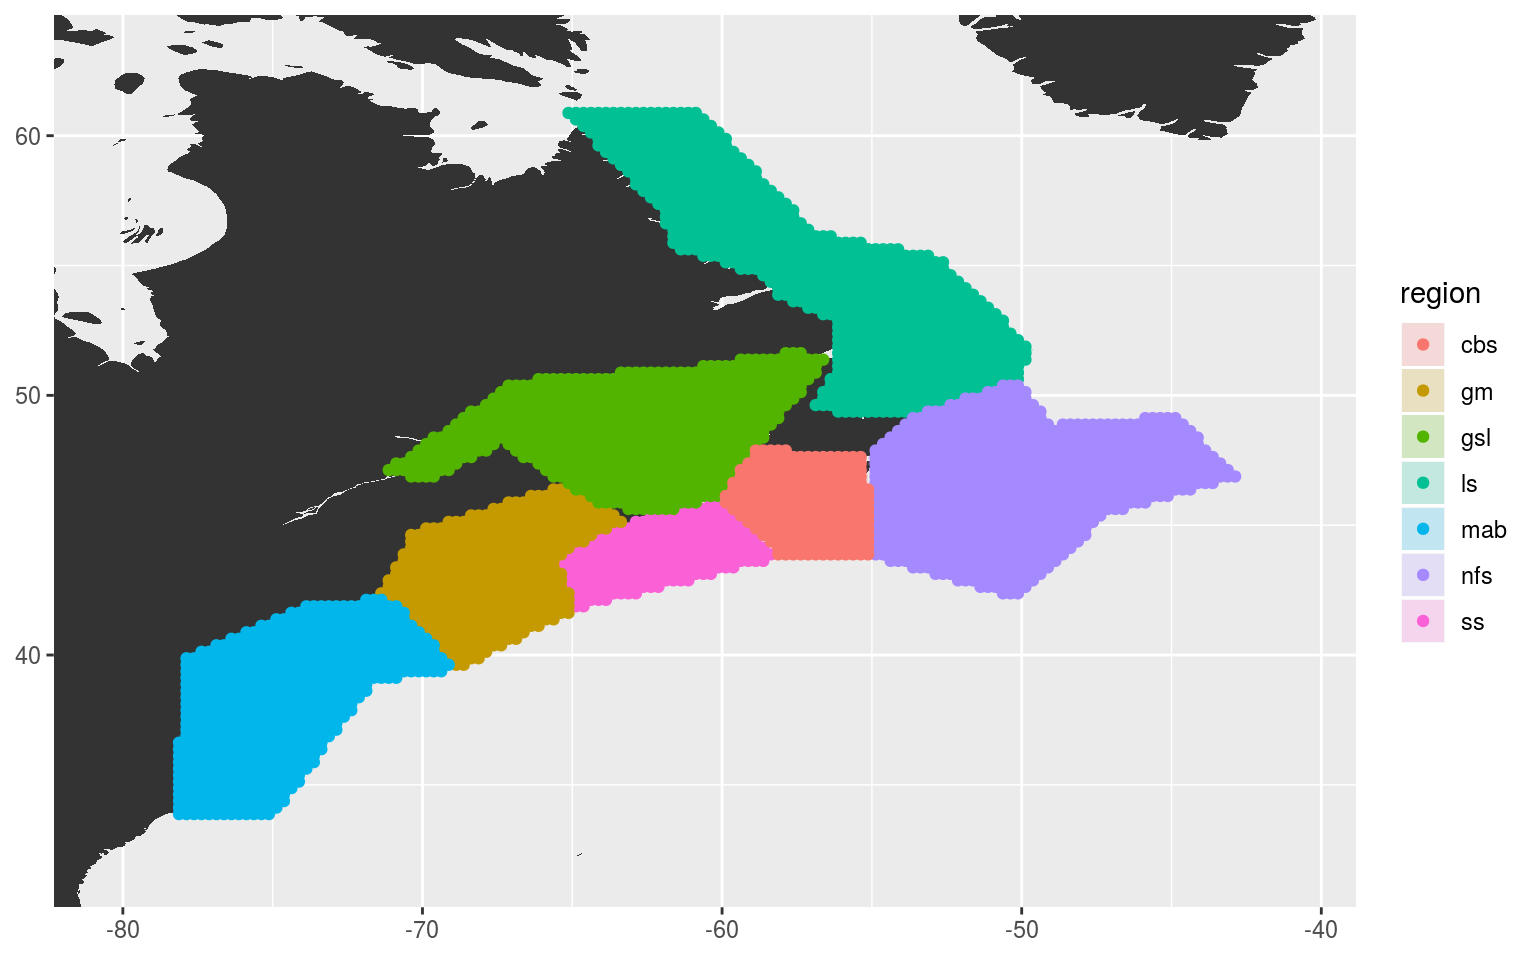
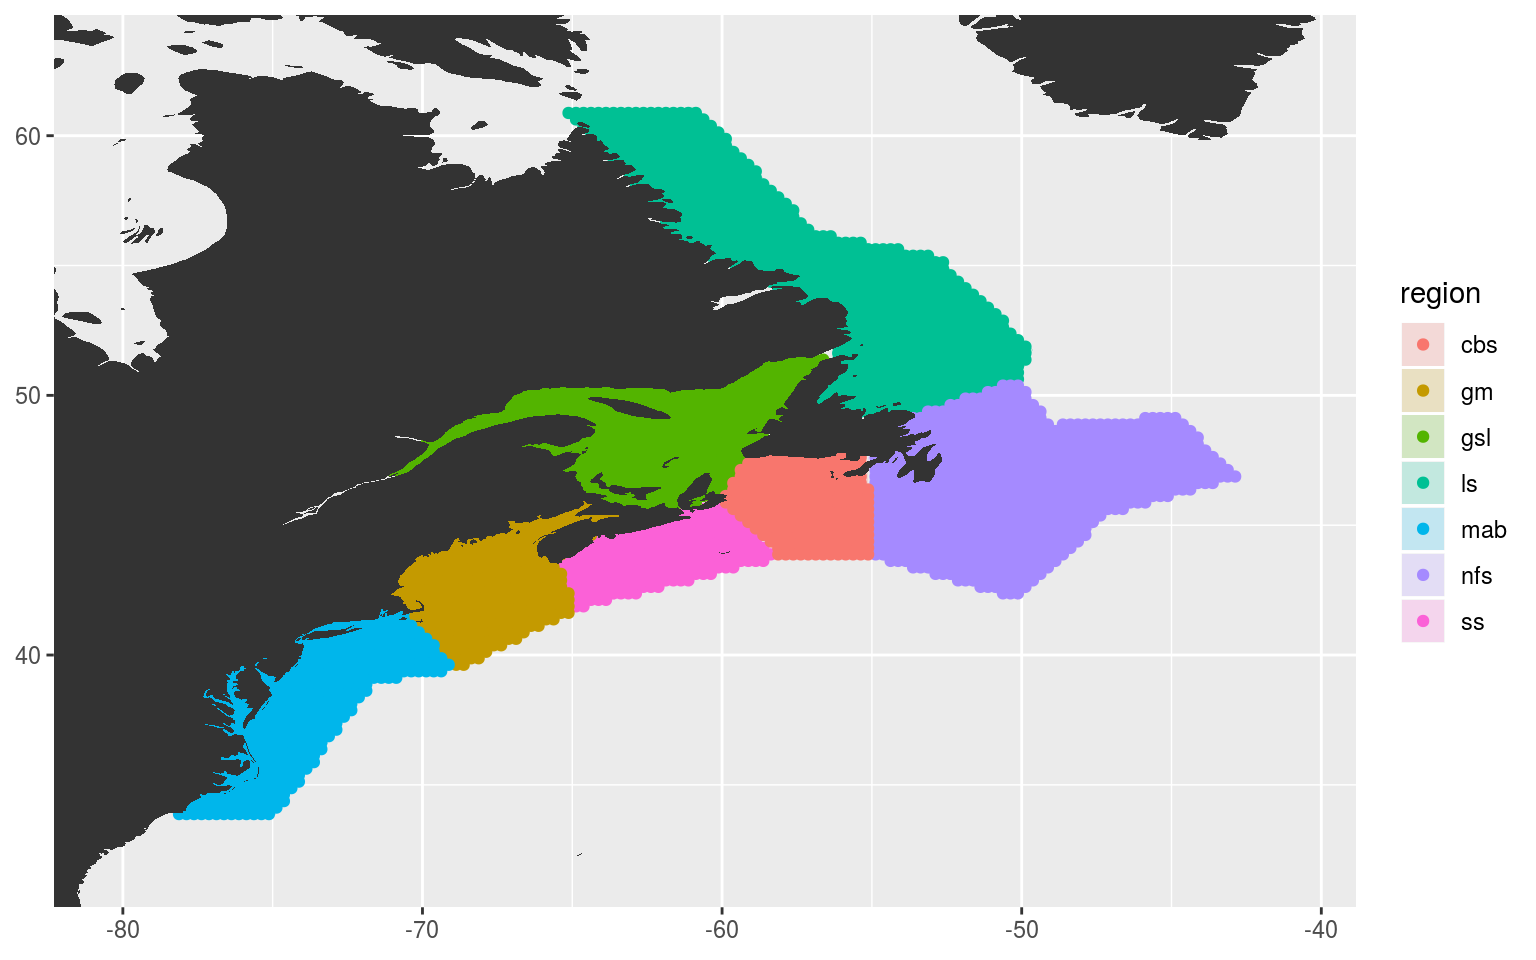
Build site.

Changed region(s): [[0.0938, 0.125, 0.625, 0.8438]]

diff --git a/docs/sst-prep.html b/docs/sst-prep.html
@@ -380,7 +380,7 @@ div.section {
 </li>
 <li>
 <details>
-<p><summary> <strong style="color:blue;">✔</strong> <strong>Repository version:</strong> <a href="https://github.com/robwschlegel/MHWNWA/tree/463b89a0b52d3f50b13fee163488583e6fa4db5d" target="_blank">463b89a</a> </summary></p>
+<p><summary> <strong style="color:blue;">✔</strong> <strong>Repository version:</strong> <a href="https://github.com/robwschlegel/MHWNWA/tree/bcee69836e357b19e2ef396a0de9b4964bd22f07" target="_blank">bcee698</a> </summary></p>
 Great! You are using Git for version control. Tracking code development and connecting the code version to the results is critical for reproducibility. The version displayed above was the version of the Git repository at the time these results were generated. <br><br> Note that you need to be careful to ensure that all relevant files for the analysis have been committed to Git prior to generating the results (you can use <code>wflow_publish</code> or <code>wflow_git_commit</code>). workflowr only checks the R Markdown file, but you know if there are other scripts or data files that it depends on. Below is the status of the Git repository when the results were generated:
 <pre><code>
 Ignored files:
@@ -453,6 +453,40 @@ Message
 </tr>
 </thead>
 <tbody>
+<tr>
+<td style="text-align:left;">
+Rmd
+</td>
+<td style="text-align:left;">
+<a href="https://github.com/robwschlegel/MHWNWA/blob/bcee69836e357b19e2ef396a0de9b4964bd22f07/analysis/sst-prep.Rmd" target="_blank">bcee698</a>
+</td>
+<td style="text-align:left;">
+robwschlegel
+</td>
+<td style="text-align:left;">
+2019-07-24
+</td>
+<td style="text-align:left;">
+Edited the polygon and sst prep vignettes while redoing methodology.
+</td>
+</tr>
+<tr>
+<td style="text-align:left;">
+html
+</td>
+<td style="text-align:left;">
+<a href="https://cdn.rawgit.com/robwschlegel/MHWNWA/7cc8ec3c2187c5f1b0efba9c358b1421156c6cb7/docs/sst-prep.html" target="_blank">7cc8ec3</a>
+</td>
+<td style="text-align:left;">
+robwschlegel
+</td>
+<td style="text-align:left;">
+2019-07-24
+</td>
+<td style="text-align:left;">
+Build site.
+</td>
+</tr>
 <tr>
 <td style="text-align:left;">
 Rmd
@@ -896,9 +930,9 @@ NWA_info &lt;- plyr::ldply(unique(NWA_coords$region), pnts_in_region)
 
 # Visualise to ensure success
 ggplot(NWA_coords, aes(x = lon, y = lat)) +
-  geom_polygon(data = map_base, aes(group = group), show.legend = F) +
   geom_polygon(aes(fill = region), alpha = 0.2) +
   geom_point(data = NWA_info, aes(colour = region)) +
+  geom_polygon(data = map_base, aes(group = group), show.legend = F) +
     coord_cartesian(xlim = NWA_corners[1:2],
                   ylim = NWA_corners[3:4]) +
   labs(x = NULL, y = NULL)</code></pre>
@@ -920,6 +954,17 @@ Date
 </tr>
 </thead>
 <tbody>
+<tr>
+<td style="text-align:left;">
+<a href="https://github.com/robwschlegel/MHWNWA/blob/7cc8ec3c2187c5f1b0efba9c358b1421156c6cb7/docs/figure/sst-prep.Rmd/pixel-regions-1.png" target="_blank">7cc8ec3</a>
+</td>
+<td style="text-align:left;">
+robwschlegel
+</td>
+<td style="text-align:left;">
+2019-07-24
+</td>
+</tr>
 <tr>
 <td style="text-align:left;">
 <a href="https://github.com/robwschlegel/MHWNWA/blob/5cb8e8f594d0cc85039ef11473f926e876eecf2a/docs/figure/sst-prep.Rmd/pixel-regions-1.png" target="_blank">5cb8e8f</a>
@@ -1071,6 +1116,17 @@ Date
 </tr>
 </thead>
 <tbody>
+<tr>
+<td style="text-align:left;">
+<a href="https://github.com/robwschlegel/MHWNWA/blob/7cc8ec3c2187c5f1b0efba9c358b1421156c6cb7/docs/figure/sst-prep.Rmd/MHW-vis-1.png" target="_blank">7cc8ec3</a>
+</td>
+<td style="text-align:left;">
+robwschlegel
+</td>
+<td style="text-align:left;">
+2019-07-24
+</td>
+</tr>
 <tr>
 <td style="text-align:left;">
 <a href="https://github.com/robwschlegel/MHWNWA/blob/81e961d9f37b51867dca7c4692d68aae1349e83b/docs/figure/sst-prep.Rmd/MHW-vis-1.png" target="_blank">81e961d</a>

diff --git a/docs/polygon-prep.html b/docs/polygon-prep.html
@@ -380,7 +380,7 @@ div.section {
 </li>
 <li>
 <details>
-<p><summary> <strong style="color:blue;">✔</strong> <strong>Repository version:</strong> <a href="https://github.com/robwschlegel/MHWNWA/tree/463b89a0b52d3f50b13fee163488583e6fa4db5d" target="_blank">463b89a</a> </summary></p>
+<p><summary> <strong style="color:blue;">✔</strong> <strong>Repository version:</strong> <a href="https://github.com/robwschlegel/MHWNWA/tree/bcee69836e357b19e2ef396a0de9b4964bd22f07" target="_blank">bcee698</a> </summary></p>
 Great! You are using Git for version control. Tracking code development and connecting the code version to the results is critical for reproducibility. The version displayed above was the version of the Git repository at the time these results were generated. <br><br> Note that you need to be careful to ensure that all relevant files for the analysis have been committed to Git prior to generating the results (you can use <code>wflow_publish</code> or <code>wflow_git_commit</code>). workflowr only checks the R Markdown file, but you know if there are other scripts or data files that it depends on. Below is the status of the Git repository when the results were generated:
 <pre><code>
 Ignored files:
@@ -453,6 +453,23 @@ Message
 </tr>
 </thead>
 <tbody>
+<tr>
+<td style="text-align:left;">
+html
+</td>
+<td style="text-align:left;">
+<a href="https://cdn.rawgit.com/robwschlegel/MHWNWA/7cc8ec3c2187c5f1b0efba9c358b1421156c6cb7/docs/polygon-prep.html" target="_blank">7cc8ec3</a>
+</td>
+<td style="text-align:left;">
+robwschlegel
+</td>
+<td style="text-align:left;">
+2019-07-24
+</td>
+<td style="text-align:left;">
+Build site.
+</td>
+</tr>
 <tr>
 <td style="text-align:left;">
 Rmd
@@ -867,6 +884,17 @@ Date
 <tbody>
 <tr>
 <td style="text-align:left;">
+<a href="https://github.com/robwschlegel/MHWNWA/blob/7cc8ec3c2187c5f1b0efba9c358b1421156c6cb7/docs/figure/polygon-prep.Rmd/poly-vis-1.png" target="_blank">7cc8ec3</a>
+</td>
+<td style="text-align:left;">
+robwschlegel
+</td>
+<td style="text-align:left;">
+2019-07-24
+</td>
+</tr>
+<tr>
+<td style="text-align:left;">
 <a href="https://github.com/robwschlegel/MHWNWA/blob/5cb8e8f594d0cc85039ef11473f926e876eecf2a/docs/figure/polygon-prep.Rmd/poly-vis-1.png" target="_blank">5cb8e8f</a>
 </td>
 <td style="text-align:left;">
@@ -1025,6 +1053,17 @@ Date
 </tr>
 </thead>
 <tbody>
+<tr>
+<td style="text-align:left;">
+<a href="https://github.com/robwschlegel/MHWNWA/blob/7cc8ec3c2187c5f1b0efba9c358b1421156c6cb7/docs/figure/polygon-prep.Rmd/cabot-strait-2-1.png" target="_blank">7cc8ec3</a>
+</td>
+<td style="text-align:left;">
+robwschlegel
+</td>
+<td style="text-align:left;">
+2019-07-24
+</td>
+</tr>
 <tr>
 <td style="text-align:left;">
 <a href="https://github.com/robwschlegel/MHWNWA/blob/5cb8e8f594d0cc85039ef11473f926e876eecf2a/docs/figure/polygon-prep.Rmd/cabot-strait-2-1.png" target="_blank">5cb8e8f</a>

diff --git a/docs/index.html b/docs/index.html
@@ -260,7 +260,7 @@ div.section {
 </li>
 <li>
 <details>
-<p><summary> <strong style="color:blue;">✔</strong> <strong>Repository version:</strong> <a href="https://github.com/robwschlegel/MHWNWA/tree/463b89a0b52d3f50b13fee163488583e6fa4db5d" target="_blank">463b89a</a> </summary></p>
+<p><summary> <strong style="color:blue;">✔</strong> <strong>Repository version:</strong> <a href="https://github.com/robwschlegel/MHWNWA/tree/bcee69836e357b19e2ef396a0de9b4964bd22f07" target="_blank">bcee698</a> </summary></p>
 Great! You are using Git for version control. Tracking code development and connecting the code version to the results is critical for reproducibility. The version displayed above was the version of the Git repository at the time these results were generated. <br><br> Note that you need to be careful to ensure that all relevant files for the analysis have been committed to Git prior to generating the results (you can use <code>wflow_publish</code> or <code>wflow_git_commit</code>). workflowr only checks the R Markdown file, but you know if there are other scripts or data files that it depends on. Below is the status of the Git repository when the results were generated:
 <pre><code>
 Ignored files:
@@ -333,6 +333,23 @@ Message
 </tr>
 </thead>
 <tbody>
+<tr>
+<td style="text-align:left;">
+html
+</td>
+<td style="text-align:left;">
+<a href="https://cdn.rawgit.com/robwschlegel/MHWNWA/7cc8ec3c2187c5f1b0efba9c358b1421156c6cb7/docs/index.html" target="_blank">7cc8ec3</a>
+</td>
+<td style="text-align:left;">
+robwschlegel
+</td>
+<td style="text-align:left;">
+2019-07-24
+</td>
+<td style="text-align:left;">
+Build site.
+</td>
+</tr>
 <tr>
 <td style="text-align:left;">
 html
